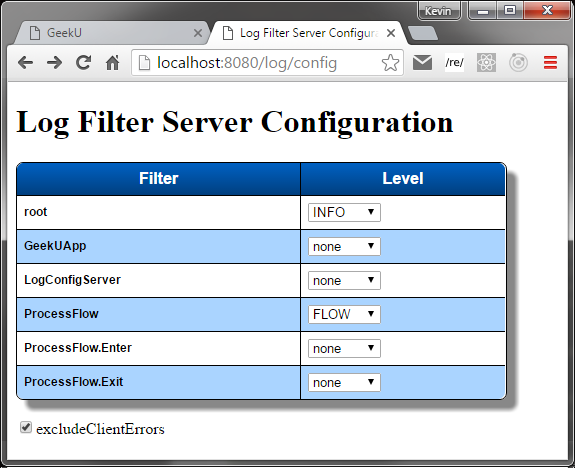
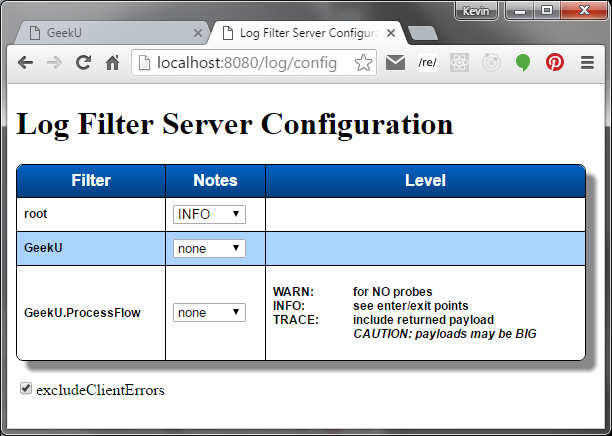
provide a Log Filter 'Note' highlighting app-level heuristics in the Interactive Filter Configuration -also- optimized filter location by us

diff --git a/src/shared/util/Log.js b/src/shared/util/Log.js
@@ -365,6 +365,20 @@ class Log {
     return _excludeClientErrors;
   }
 
+
+  /**
+   * Locate a filter, based on it's name.
+   * 
+   * @param {String} filterName the filter name to locate.
+   *
+   * @return {FilterNode} the filterNode associated to the supplied filterName.
+   *
+   * @api public
+   */
+  static filter(filterName) {
+    return _locateOrDefineFilter(filterName);
+  }
+
 } // end of ... class Log
 
 export default Log
@@ -611,8 +625,15 @@ function _registerLevels(levelNames) {
  * @api private
  */
 function _locateOrDefineFilter(filterName) {
-  // purge any filterName whitespace
-  filterName = filterName.replace(/\s+/g, '');
+
+  // if the filter is previously defined, simply return it
+  const filterNode = _filter[filterName];
+  if (filterNode)
+    return filterNode;
+
+  // validate supplied filterName
+  assert(!/\s/g.test(filterName),
+         `Log.filter('${filterName}') ERROR: filterName CANNOT contain whitespace`);
 
   // locate top-level root filter
   // ... dynamically create on first occurrance
@@ -660,12 +681,19 @@ function _locateOrDefineFilter(filterName) {
  * @param {String} filterName the filter name to set.
  * @param {int/String} level the log level (e.g. Log.DEBUG) to set in
  * supplied filter.  Use null/'none' to undefine (defering to parentage).
+ * NOTE: level may also optionally contain a note, by wrapping in an array ... [level, filterNote]
  *
  * @return {FilterNode} the filterNode associated to the supplied filterName.
  *
  * @api private
  */
 function _setFilter(filterName, level) {
+
+  // level may also optionally contain a note, by wrapping in an array ... [level, filterNote]
+  let filterNote = null;
+  if (Array.isArray(level)) {
+    [level, filterNote] = level;
+  }
 
   // resolve/validate supplied level (int/String) to it's internal numeric representation
   // ... null for none
@@ -679,6 +707,9 @@ function _setFilter(filterName, level) {
   // locate/define filter, and set it
   const filterNode = _locateOrDefineFilter(filterName);
   filterNode.level = level;
+  if (filterNote !== null) {
+    filterNode.note = filterNote
+  }
 
   return filterNode;
 }
@@ -727,7 +758,7 @@ class FilterNode {
   /**
    * Construct a new FilterNode instance.
    * 
-   * @param {String} filterName the filter name.
+   * @param {String} filterName the filter name (ex: 'startup.actionCreation')
    * @param {FilterNode} parentFilterNode the parent FilterNode (null for top-level 'root')
    * 
    * @api private
@@ -745,6 +776,7 @@ class FilterNode {
     this.filterName = filterName;
     this.level      = null; // initially undefined level (deferring to parentage)
     this.parent     = parentFilterNode;
+    this.note       = '';
   }
 
 

diff --git a/src/client/Log4GeekU.js b/src/client/Log4GeekU.js
@@ -23,22 +23,17 @@ const logConfig = Log.config({
     'root':               'INFO',
 
     'startup':            'none',
-    'startup.muiTheme':   'none',  // 'DEBUG' to see entire Material-UI muiTheme
     'startup.appStore':   'none',
+    'startup.muiTheme':  ['none', ` <dl> <dt> DEBUG:  </dt> <dd> see entire Material-UI muiTheme </dd>
+                                    </dl>`],
 
+    'actions':           ['none', ` <dl> <dt> FLOW:   </dt> <dd> see action enter/exit points </dd>
+                                         <dt> DEBUG:  </dt> <dd> include action app logic </dd>
+                                         <dt> VERBOSE:</dt> <dd> include action content too<br/><i>CAUTION: actions with payload may be BIG</i> </dd>
+                                    </dl> ... may apply lower (ex: 'actions.userMsg')`],
 
-
-    'actions':            'none',  // 'FLOW'    to see action enter/exit points,
-                                   // 'DEBUG'   to see acction app logic,
-                                   // 'VERBOSE' to include action content too (CAUTION: actions with payload can be LARGE)
-                                   // ... -OR- refine with individual action (ex: actions.retrieveStudents)
-  //'actions.userMsg':    'DEBUG',
-
-
-
-    'appState':           'none',  // 'DEBUG' to see reducer logic
-                                   // ... -OR- refine with individual state (ex: appState.students)
-  //'appState.userMsg':   'DEBUG',
+    'appState':          ['none', ` <dl> <dt> DEBUG:  </dt> <dd> see reducer app logic </dd>
+                                    </dl> ... may apply lower (ex: 'appState.userMsg')`],
 
 
     'autoBindAllMethods': 'none',

diff --git a/src/shared/util/LogInteractiveConfigForServer.js b/src/shared/util/LogInteractiveConfigForServer.js
@@ -57,16 +57,18 @@ logConfig.get('/log/config', (req, res, next) => {
       <table>
         <tr>
           <td>Filter</td>
+          <td>Notes</td>
           <td>Level</td>
         </tr>`;
 
   for (const filterName in config.filter) {
     const filterLevel = config.filter[filterName];
-
+    const filterNote  = Log.filter(filterName).note;
     myHtml += `
         <tr>
           <td>${filterName}</td>
           <td>${genSelect(filterName, filterLevel, config.logLevels)}</td>
+          <td>${filterNote}</td>
         </tr>`;
   }
 
@@ -197,10 +199,22 @@ function changeExcludeClientErrors(checked) {
 // ***
 
 const myCss = `
+
+dt {
+  float: left;
+  clear: left;
+  margin-right: 5px;
+  font-weight: bold;
+}
+
+dd {
+  margin-left: 80px;
+}
+
 /* from: http://www.csstablegenerator.com/  ... BLUE TINT */
 .CSSTableGenerator {
   margin:0px;padding:0px;
-  width:90%;
+  width:98%;
   box-shadow: 10px 10px 5px #888888;
   border:1px solid #000000;
   -moz-border-radius-bottomleft:7px;

diff --git a/src/shared/util/LogInteractiveConfigForBrowser.js b/src/shared/util/LogInteractiveConfigForBrowser.js
@@ -78,15 +78,17 @@ function activateLogConfig() {
         <tr>
           <td>Filter</td>
           <td>Level</td>
+          <td>Notes</td>
         </tr>`;
 
       for (const filterName in config.filter) {
         const filterLevel = config.filter[filterName];
-
+        const filterNote  = Log.filter(filterName).note;
         myHtml += `
         <tr>
           <td>${filterName}</td>
           <td>${genSelect(filterName, filterLevel, config.logLevels)}</td>
+          <td>${filterNote}</td>
         </tr>`;
       }
 
@@ -173,10 +175,22 @@ function changeExcludeClientErrors(checked) {
 // ***
 
 const myCss = `
+
+dt {
+  float: left;
+  clear: left;
+  margin-right: 5px;
+  font-weight: bold;
+}
+
+dd {
+  margin-left: 80px;
+}
+
 /* from: http://www.csstablegenerator.com/ ... GREEN TINT */
 .CSSTableGenerator {
   margin:0px;padding:0px;
-  width:90%;
+  width:98%;
   box-shadow: 10px 10px 5px #888888;
   border:1px solid #3f7f00;
   -moz-border-radius-bottomleft:7px;

diff --git a/src/server/Log4GeekU.js b/src/server/Log4GeekU.js
@@ -15,7 +15,10 @@ const logConfig = Log.config({
   filter: {
     'root':              'INFO',
     'GeekU':             'none',
-    'GeekU.ProcessFlow': 'none', // 'WARN' for NO probes, 'INFO for enter/exit points, 'TRACE' to see returned payload
+    'GeekU.ProcessFlow': ['none', ` <dl> <dt> WARN:   </dt> <dd> for NO probes </dd>
+                                         <dt> INFO:   </dt> <dd> see enter/exit points </dd>
+                                         <dt> TRACE:  </dt> <dd> include returned payload<br/><i>CAUTION: payloads may be BIG</i> </dd>
+                                    </dl>`],
   },
 
   excludeClientErrors: true,  // false: to see client Errors in log

diff --git a/src/shared/util/Log.md b/src/shared/util/Log.md
@@ -493,11 +493,18 @@ settings to the master filter.
   });
 ```
 
-You may specify the filter values with either the Log defined
+You may specify the filter level with either the Log defined
 constants (e.g. Log.DEBUG), or their cooresponding string
-representation (e.g. "DEBUG").
+representation (e.g. 'DEBUG', 'none', etc.).
 
-**Notice that Log pre-defines a 'root' filter**, which is referenced
+In addition to the filter level, you may also define an optional
+**note**.  This note is displayed in the [Interactive Filter
+Configuration](#interactive-filter-configuration), providing a
+convenient place to highlight certain application heuristics.  In
+place of the level setting, merely supply an array of two elements
+... the level, followed by the note.
+
+**Notice that Log pre-defines a 'root' filter**.  This special filter is referenced
 when a given filter has not been set.  This 'root' will always be
 defined (either by Log heuristics, or a client configuration), and
 cannot be un-set (null/undefined).
